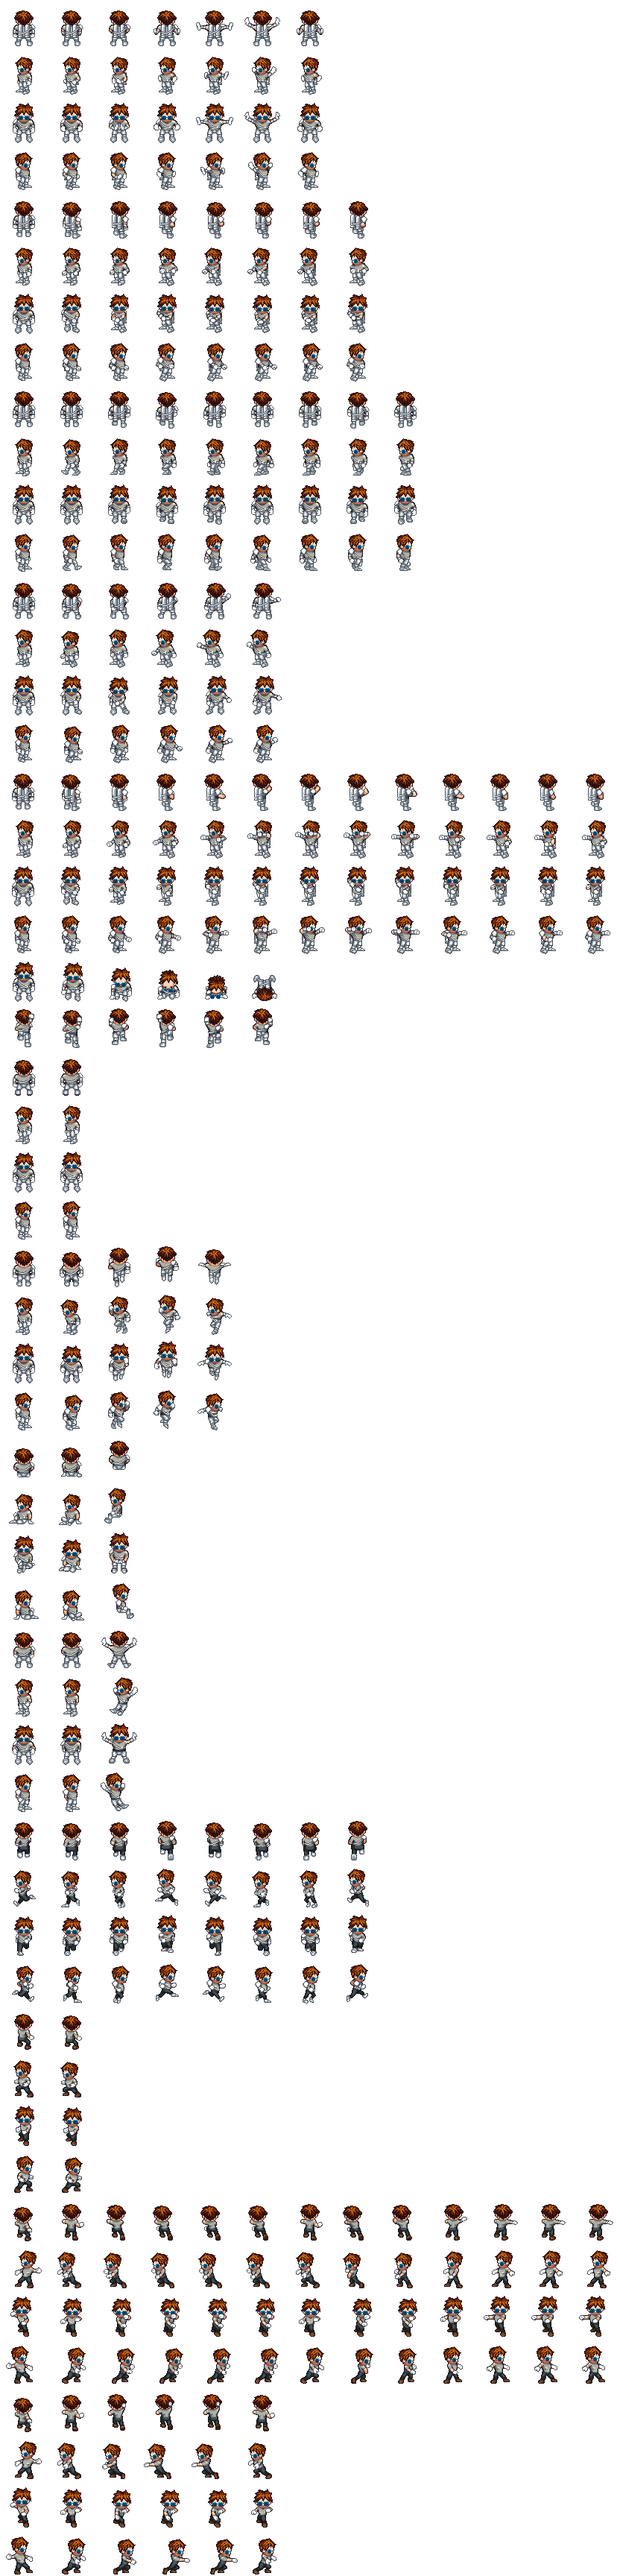
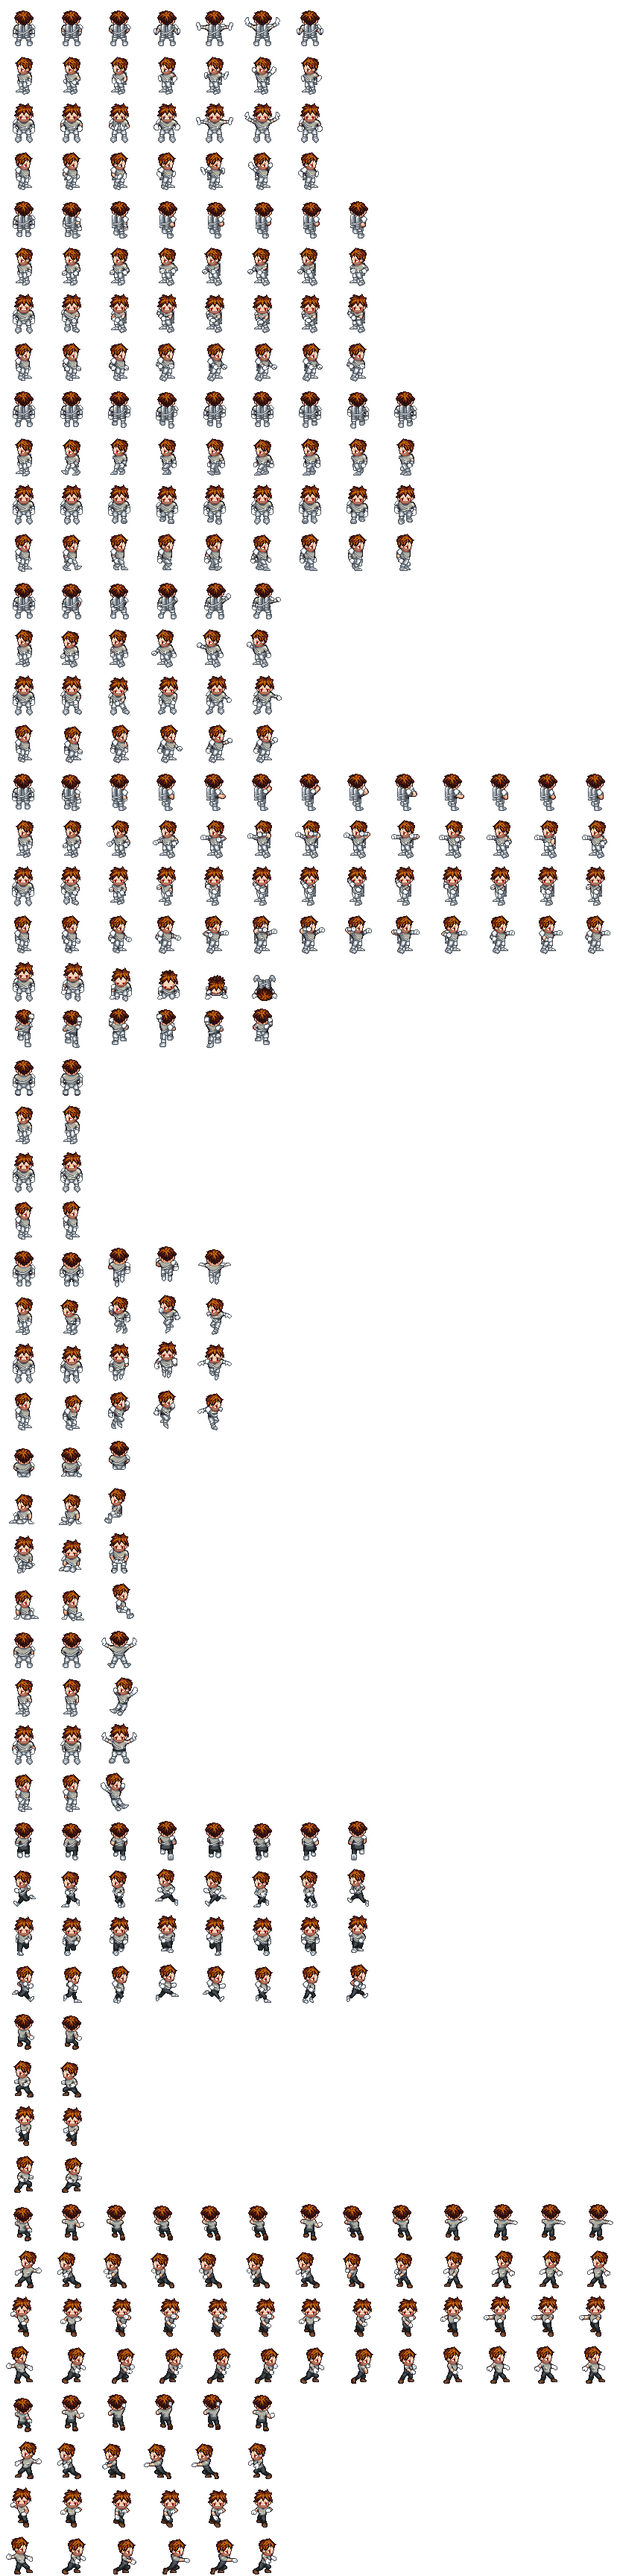
assets: Visão artificial com olhos vermelhos (sem óculos ciano)

diff --git a/scripts/compose_alex_variants.py b/scripts/compose_alex_variants.py
@@ -76,7 +76,7 @@ def recolor_metal(im: Image.Image, tint: tuple[int, int, int] = (170, 185, 200))
 
 
 def recolor_cyan(im: Image.Image) -> Image.Image:
-    """Recolor opaque pixels toward cyan (cyber eyes / visor)."""
+    """Recolor opaque pixels toward cyan (Neon Elite skin / visor)."""
     px = im.load()
     w, h = im.size
     for y in range(h):
@@ -92,30 +92,55 @@ def recolor_cyan(im: Image.Image) -> Image.Image:
     return im
 
 
+def recolor_red_glow(im: Image.Image) -> Image.Image:
+    """Push eye pixels toward bright implant red."""
+    px = im.load()
+    w, h = im.size
+    for y in range(h):
+        for x in range(w):
+            r, g, b, a = px[x, y]
+            if a == 0:
+                continue
+            lum = (r * 30 + g * 59 + b * 11) // 100
+            # Keep highlights near white; body of the eye goes hot red
+            if lum > 200:
+                px[x, y] = (255, min(255, lum), min(220, lum - 20), a)
+            else:
+                nr = min(255, 180 + lum // 2)
+                ng = min(80, lum // 3)
+                nb = min(60, lum // 4)
+                px[x, y] = (nr, ng, nb, a)
+    return im
+
+
 def resolve_anim_file(layer_dir: Path, anim: str) -> Path | None:
     """Find animation PNG for a layer directory (handles nested color files)."""
+    # Prefer red eyes / steel metal / white bandages when color variants exist.
+    preferred = (
+        "red.png",
+        "steel.png",
+        "bronze.png",
+        "gold.png",
+        "white.png",
+        "sunglasses.png",
+    )
+    anim_dir = layer_dir / anim
+    if anim_dir.is_dir():
+        for name in preferred:
+            p = anim_dir / name
+            if p.is_file():
+                return p
+        nested = sorted(anim_dir.glob("*.png"))
+        if nested:
+            return nested[0]
+
     candidates = [
         layer_dir / f"{anim}.png",
         layer_dir / anim / f"{anim}.png",
     ]
-    # e.g. facial/glasses/.../walk/sunglasses.png
-    if (layer_dir / anim).is_dir():
-        nested = list((layer_dir / anim).glob("*.png"))
-        if nested:
-            candidates.extend(nested)
     for c in candidates:
         if c.is_file():
             return c
-    # jetpack style: layer_dir/anim/steel.png
-    anim_dir = layer_dir / anim
-    if anim_dir.is_dir():
-        for name in ("steel.png", "bronze.png", "gold.png"):
-            p = anim_dir / name
-            if p.is_file():
-                return p
-        pngs = list(anim_dir.glob("*.png"))
-        if pngs:
-            return pngs[0]
     return None
 
 
@@ -141,6 +166,8 @@ def overlay_layer(
             strip = recolor_metal(strip)
         elif recolor == "cyan":
             strip = recolor_cyan(strip)
+        elif recolor == "red":
+            strip = recolor_red_glow(strip)
 
         sw, sh = strip.size
         frames_w = sw // FRAME
@@ -247,8 +274,9 @@ def main() -> None:
         ("arms/bracers/male", "metal"),
         ("arms/hands/gloves/male", "metal"),
     ]
+    # Visão artificial: olhos implantados vermelhos (não óculos ciano).
     eyes_layers = arms_layers + [
-        ("facial/glasses/sunglasses/adult", "cyan"),
+        ("eyes/human/adult/default", "red"),
     ]
     dash_layers = eyes_layers + [
         ("backpack/jetpack/male", "metal"),
@@ -260,7 +288,7 @@ def main() -> None:
         "feet/feet_armour.json",
         "arms/wrists/arms_bracers.json",
         "arms/arms_gloves.json",
-        "headwear/accessories/glasses/facial_glasses_sunglasses.json",
+        "head/eyes/meta_eyes.json",
         "torso/backpack/backpack_jetpack.json",
         "arms/bauldron.json",
     ]

diff --git a/scripts/compose_alex_skins.py b/scripts/compose_alex_skins.py
@@ -235,7 +235,7 @@ def main() -> None:
         note="créditos 200 — cabo / amarelo-preto",
     )
 
-    # 4) Neon Elite
+    # 4) Neon Elite — ciano cosmético; base já traz olhos vermelhos do upgrade
     print("=== Neon Elite ===")
     write_skin(
         "alex-skin-neon-elite",
@@ -250,7 +250,7 @@ def main() -> None:
             "arms/bauldron.json",
             "headwear/accessories/glasses/facial_glasses_sunglasses.json",
         ],
-        note="R$ 4,90 — neon elite / ciano",
+        note="R$ 4,90 — neon elite / ciano (cosmético; visão do upgrade = vermelho)",
     )
 
     # 5) Chrome Mirror
@@ -275,7 +275,7 @@ def main() -> None:
         note="R$ 9,90 — chrome mirror / espelhado",
     )
 
-    # 6) Vektor Special
+    # 6) Vektor Special — clínica; mantém olhos vermelhos do kit
     print("=== Vektor Special ===")
     write_skin(
         "alex-skin-vektor",
@@ -283,12 +283,10 @@ def main() -> None:
         layers=[
             ("torso/clothes/longsleeve/formal_striped/male", None, (245, 245, 250)),
             ("arms/hands/gloves/male", None, (20, 20, 25)),
-            ("facial/glasses/sunglasses/adult", None, (180, 20, 40)),  # clinic red lens
             ("shoulders/bauldron/male", "metal", None),
         ],
         extra_credit_defs=[
             "arms/arms_gloves.json",
-            "headwear/accessories/glasses/facial_glasses_sunglasses.json",
             "arms/bauldron.json",
         ],
         note="R$ 14,90 — Vektor Special / clínica corporativa",
